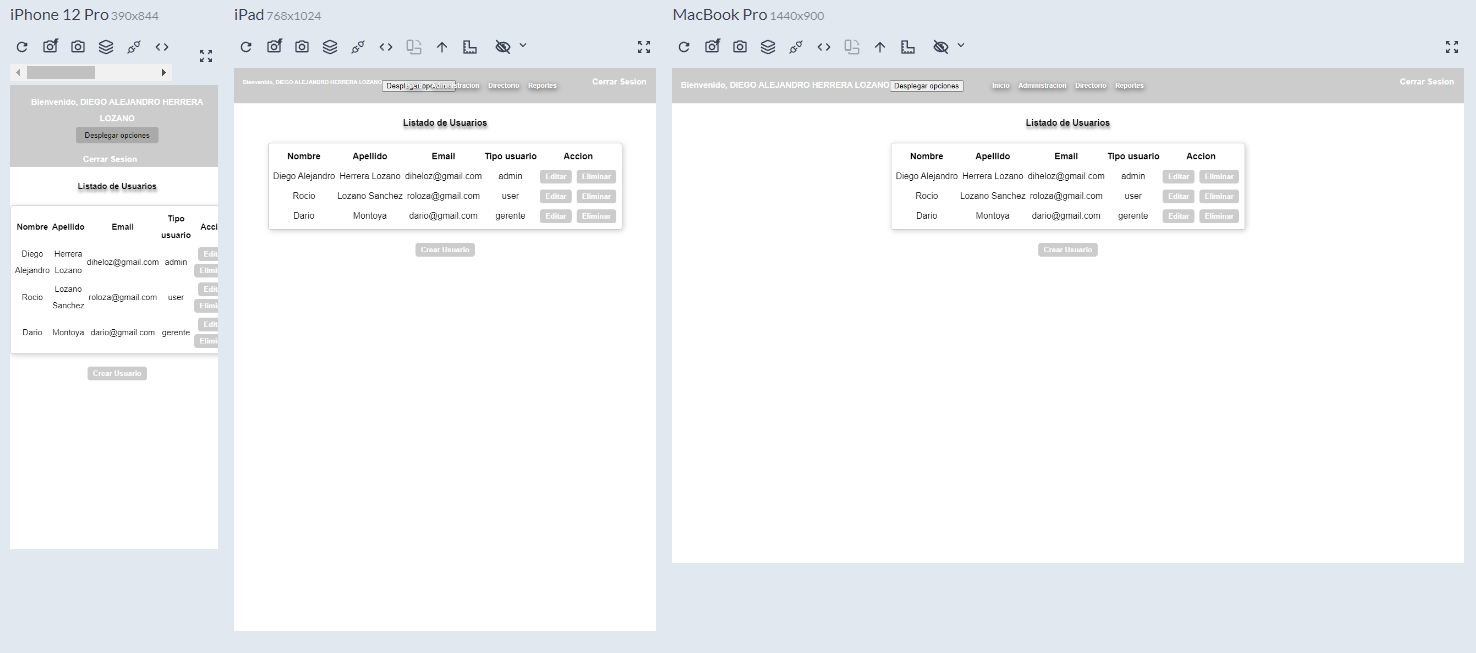
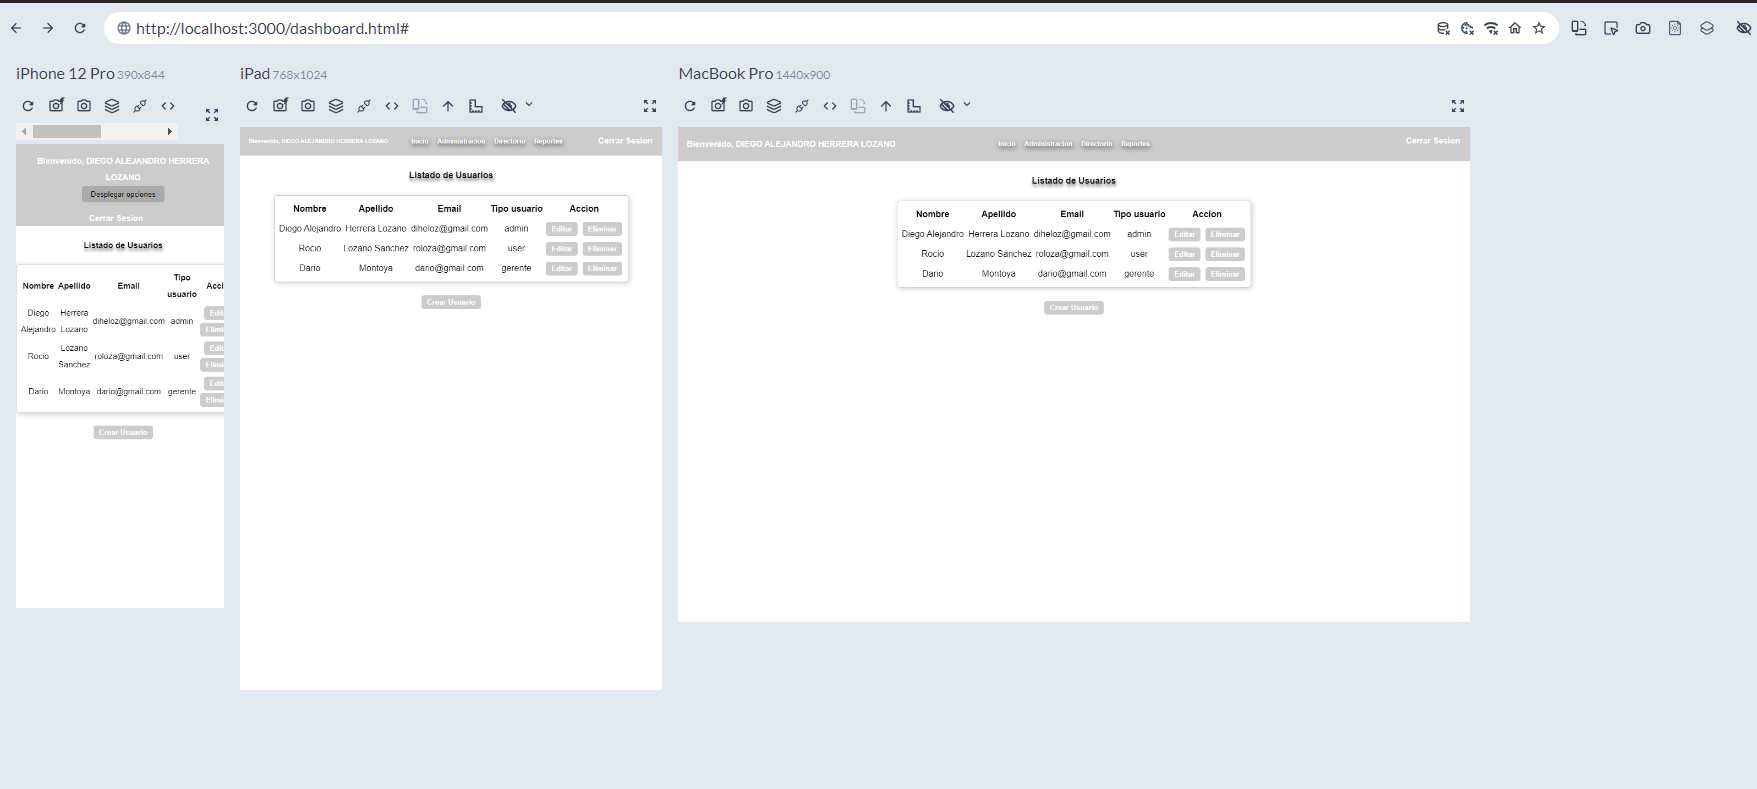
changed image roles

diff --git a/Public/dashboard.html b/Public/dashboard.html
@@ -12,7 +12,7 @@
     <div class="container-dashboard">        
         <div class="bienvenido"></div>        
         <div class="modulos">
-            <button class="hidden btn-desplegar">Desplegar opciones</button>
+            <button class="hidden btn-desplegar">Desplegar opciones</button><!-- aqui hay un problema, ya que al agregar "hidden" no desplega el menu Administracion-->
             <nav>
                 <a class="home"  href="/dashboard.html">Inicio</a>
                 <a class="admin" href="#">Administracion</a>
